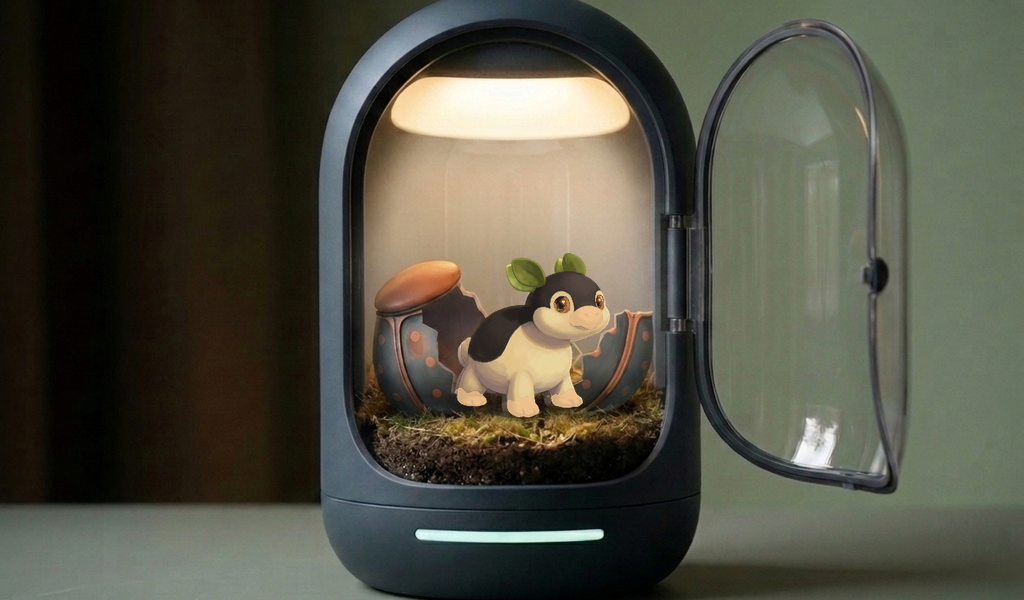
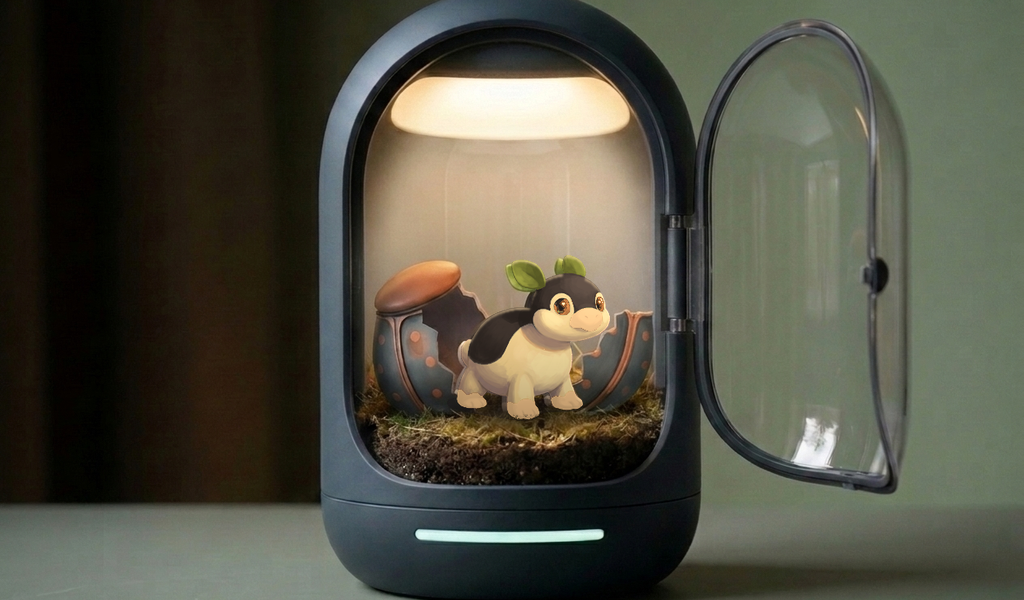
T-20261017-incubator-object: Hatch now relit to the capsule's lamp

Changed region(s): [[0.4688, 0.42, 0.5938, 0.6], [0.4375, 0.63, 0.5938, 0.75], [0.4375, 0.54, 0.4688, 0.57]]

diff --git a/results/T-20261017-incubator-object/composite-juvenile.py b/results/T-20261017-incubator-object/composite-juvenile.py
@@ -1,18 +1,46 @@
-# Hatch now: replace the studio's redrawn creature with the signed juvenile S01 master, reduced once and never mirrored,
-# feet on the moss where the painted one stood, warmed slightly to the capsule's lamp. The painted creature is fully
-# covered by the master's figure (checked by eye at 3x).
+# Hatch now: replace the studio's redrawn creature with the signed juvenile S01 master (reduced once, never mirrored),
+# relit to the capsule's roof lamp so the painted mibi and the painted scene read as one world:
+#   warm light from above falling to shade underneath, a warm rim on the top edges (crest leaves, head, back),
+#   a contact shadow and occlusion on the moss, and the feet sunk into the moss (the scene's own grass blades in front).
 import sys, numpy as np
-from PIL import Image
+from PIL import Image, ImageDraw, ImageFilter
 src, juv, dst = sys.argv[1:4]
-im = Image.open(src).convert('RGBA'); j = Image.open(juv).convert('RGBA')
-bb = j.getbbox(); fig = j.crop(bb)
-H = 166; k = H / fig.height; fig = fig.resize((round(fig.width * k), H), Image.LANCZOS)
-a = np.asarray(fig).astype(float); a[..., :3] *= np.array([1.06, 0.98, 0.86]); a[..., :3] *= 0.93   # the lamp's warmth
+scene = Image.open(src).convert('RGBA'); orig = np.asarray(scene).astype(float)
+j = Image.open(juv).convert('RGBA'); fig = j.crop(j.getbbox())
+H = 166; fig = fig.resize((round(fig.width * H / fig.height), H), Image.LANCZOS)
+a = np.asarray(fig).astype(float); h, w = a.shape[:2]; al = a[..., 3] / 255
+# 1. light from above: warm and a touch brighter at the top, falling to shade at the belly and feet
+t = np.linspace(0, 1, h)[:, None, None]
+gain = 1.10 - 0.38 * t ** 1.4
+warm = np.array([1.08, 0.99, 0.84])
+a[..., :3] = a[..., :3] * gain * warm
+# 2. a warm rim on the top edges: pixels whose upper neighbours are transparent
+up = np.zeros_like(al)
+for d in (1, 2, 3):
+    up = np.maximum(up, np.pad(al, ((d, 0), (0, 0)))[:-d] < 0.2)
+rim = (al > 0.5) * up
+rim = np.asarray(Image.fromarray((rim * 255).astype(np.uint8)).filter(ImageFilter.GaussianBlur(1.0))).astype(float) / 255
+a[..., :3] = a[..., :3] * (1 - 0.55 * rim[..., None]) + np.array([255, 222, 170]) * 0.55 * rim[..., None]
 fig = Image.fromarray(a.clip(0, 255).astype(np.uint8), 'RGBA')
-cx, foot = 528, 419
-from PIL import ImageDraw, ImageFilter                             # a soft contact shadow on the moss, under the feet
-sh = Image.new('L', im.size, 0); ImageDraw.Draw(sh).ellipse((cx - 70, foot - 9, cx + 66, foot + 7), fill=120)
-sh = sh.filter(ImageFilter.GaussianBlur(6)); dark = Image.new('RGBA', im.size, (20, 14, 8, 255)); dark.putalpha(sh)
-im.alpha_composite(dark)
-im.alpha_composite(fig, (cx - fig.width // 2, foot - fig.height))
-im.convert('RGB').save(dst)
+cx, foot = 528, 421
+x0, y0 = cx - w // 2, foot - h
+# 3. contact shadow and occlusion on the moss
+sh = Image.new('L', scene.size, 0); d = ImageDraw.Draw(sh)
+d.ellipse((cx - 78, foot - 12, cx + 74, foot + 9), fill=185)       # the body's shadow from the lamp above
+d.ellipse((cx - 50, foot - 8, cx + 46, foot + 4), fill=230)        # occlusion right under the body
+sh = sh.filter(ImageFilter.GaussianBlur(7)); dark = Image.new('RGBA', scene.size, (18, 12, 6, 255)); dark.putalpha(sh)
+scene.alpha_composite(dark)
+scene.alpha_composite(fig, (x0, y0))
+# 4. the feet sunk into the moss: the scene's own lit grass blades come back in front over the feet's lowest rows
+out = np.asarray(scene).astype(float)
+band = slice(foot - 10, foot + 3); xs = slice(x0, x0 + w)
+o = orig[band, xs, :3]; L = o @ np.array([0.3, 0.59, 0.11])
+local = np.asarray(Image.fromarray(L.astype(np.uint8)).filter(ImageFilter.BoxBlur(4))).astype(float)
+blade = np.clip((L - local - 4) / 18, 0, 1)                          # the brighter strands in the moss
+fade = np.clip((np.arange(o.shape[0]) - 2) / 6, 0, 1)[:, None]       # stronger toward the ground line
+fa = np.zeros(o.shape[:2]); fy0 = foot - 10 - y0
+fa[:, :] = al[np.clip(np.arange(fy0, fy0 + o.shape[0]), 0, h - 1)][:, :o.shape[1]]
+shadow_k = 1 - np.asarray(sh)[band, xs].astype(float) / 255 * 0.93   # the blades sit in the same shadow
+m = (blade * fade * (fa > 0.3))[..., None]                           # only over the feet themselves
+out[band, xs, :3] = out[band, xs, :3] * (1 - m) + o * shadow_k[..., None] * m
+Image.fromarray(out[..., :3].clip(0, 255).astype(np.uint8)).save(dst)

diff --git a/results/T-20261017-incubator-object/art-director.md b/results/T-20261017-incubator-object/art-director.md
@@ -56,3 +56,11 @@ The studio painted the first intent (brooder, bell jar, appliance); the revised 
   - It is a composite, so the creature's light is the master's own (top left) under the roof lamp. It holds at 1×. The master painting, if it's built, paints the juvenile under the roof lamp.
 
 **The two moments read apart in two seconds:** a dusk capsule sealed with a mint ring, against an open capsule with a broken shell and a new creature looking out. It is no longer "the same machine at two brightnesses".
+
+**Hatch now, relit (the creative director's fix):** the composite now lights the signed juvenile to the capsule's roof lamp.
+- warm from above, falling to shade at the belly and feet;
+- a warm rim on the crest leaves, head and back;
+- a contact shadow and occlusion on the moss;
+- the feet sunk in, with the scene's own lit grass blades brought back in front of the lowest rows, in the same shadow.
+
+The stand itself is unmirrored and unchanged in design. Note for every future composite: the photographic capsule and our painted mibis read as one world only when the mibi takes the scene's light.
